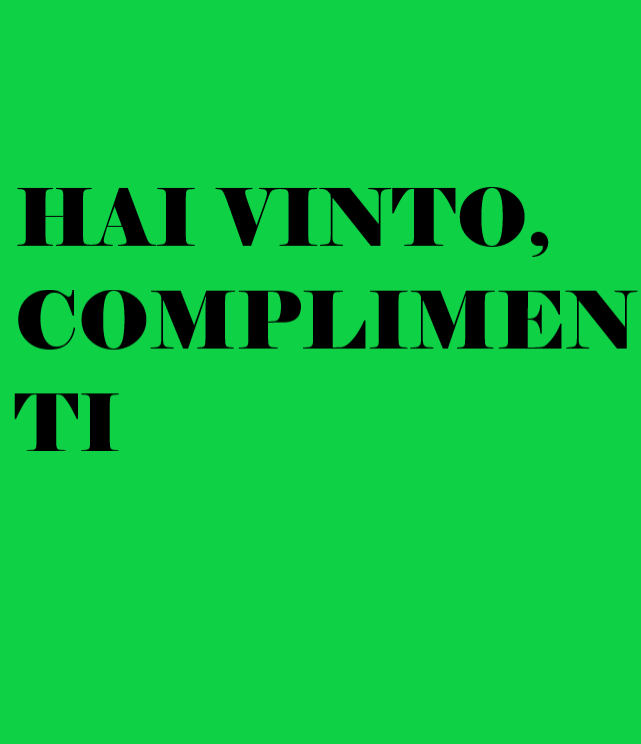
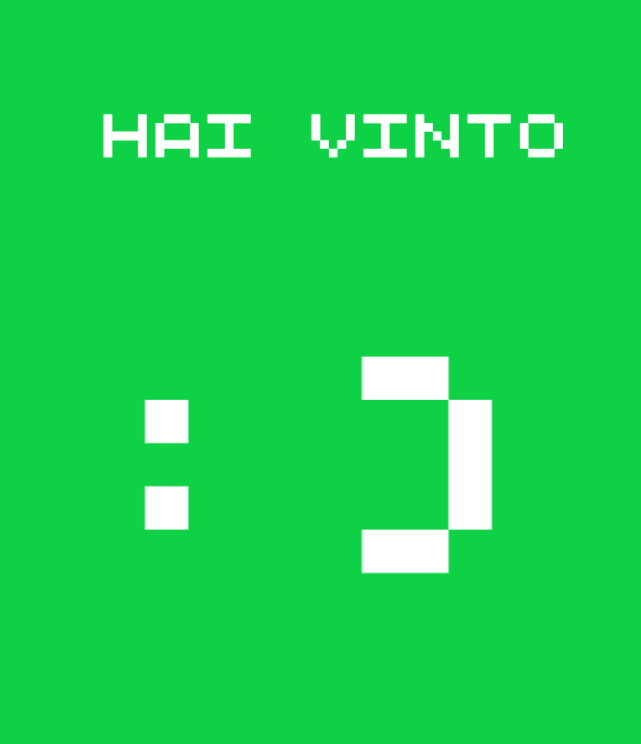
Fix generali prima del ricevimento

diff --git a/bubblesorting/src/main/java/gui/GameControl.java b/bubblesorting/src/main/java/gui/GameControl.java
@@ -88,9 +88,17 @@ public class GameControl extends JPanel {
 		int currentY = startY;
 		int contContainerInRow = 0;
 		int changeRowAt = containers.size();
+		int offSetXRow = 0;
+		
 		if (containers.size() > CommonConstants.LIMIT_CONTAINER_IN_ROW) {
-			changeRowAt = containers.size()/2 + 1;
-		} 
+			if ((containers.size() % 2) == 0) {
+				changeRowAt = containers.size() / 2;
+			} else {
+				changeRowAt = containers.size()/2 + 1;
+				offSetXRow = CommonConstants.CONTAINER_WIDTH - (CommonConstants.BALL_IN_CONTAINER_OFF_SET_X * (CommonConstants.LIMIT_CONTAINER_IN_ROW - (this.game.getnContainers() - changeRowAt)));
+			}
+			
+		}
 		for (String key : containers.keySet()) {
 			Container container = containers.get(key);
 			g2d.drawImage(MediaProvider.get().getContainer(), currentX, currentY, this);
@@ -103,7 +111,7 @@ public class GameControl extends JPanel {
 			if (contContainerInRow >= changeRowAt) {
 				currentY = currentY + (CommonConstants.CONTAINER_HEIGHT * 2);
 				contContainerInRow = 0;
-				currentX = startX + CommonConstants.CONTAINER_WIDTH - (CommonConstants.BALL_IN_CONTAINER_OFF_SET_X * (CommonConstants.LIMIT_CONTAINER_IN_ROW - (this.game.getnContainers() - changeRowAt)) );
+				currentX = startX +  offSetXRow;
 			}
 		}
 		
@@ -122,4 +130,29 @@ public class GameControl extends JPanel {
 		MediaProvider.get().drawCircleColored(ball.getColour(), g2d, xContainer + CommonConstants.BALL_IN_CONTAINER_OFF_SET_X, currentY);
 	}
 	
+	public void setGameWin() {
+		JPanel panel = new JPanel() {
+
+			private static final long serialVersionUID = 4829165578867574065L;
+
+			protected void paintComponent(Graphics g) {
+				super.paintComponent(g);
+				g.drawImage(MediaProvider.get().Win(), 0, 0, Config.SCREEN_WIDTH, Config.SCREEN_HEIGHT, null);
+			}
+		}; 
+		window.changeScreen(panel);
+	}
+	
+	public void setGameOver() {
+		JPanel panel = new JPanel() {
+			
+			private static final long serialVersionUID = 1597645967085379357L;
+
+			protected void paintComponent(Graphics g) {
+				super.paintComponent(g);
+				g.drawImage(MediaProvider.get().Over(), 0, 0, Config.SCREEN_WIDTH, Config.SCREEN_HEIGHT, null);
+			}
+		}; 
+		window.changeScreen(panel);
+	}
 }

diff --git a/bubblesorting/src/main/java/core/Updater.java b/bubblesorting/src/main/java/core/Updater.java
@@ -1,6 +1,12 @@
 package core;
 
+import java.awt.Graphics;
+
+import javax.swing.JPanel;
+
 import gui.GameControl;
+import utils.Config;
+import utils.MediaProvider;
 
 public class Updater extends Thread {
 	private boolean running;
@@ -21,21 +27,32 @@ public class Updater extends Thread {
 	@Override
 	public void run() {
 		while (running) {
-			long now = System.nanoTime();
-			
 				if (play) {
 					this.game.play();
-					System.out.println("*** AGGIORNO LA GRAFICA");
-					
-					
-					this.gameControl.repaint();
-					
-					sleep();
-					
-					this.game.doMove();
-					this.gameControl.repaint();
-					
-					sleep();
+					if (this.game.getBallChoosed() == null) {
+						if (this.game.getWin() == true) {
+							//abbiamo vinto
+							this.gameControl.setGameWin();
+							sleepFinal();
+							System.exit(0);
+						} else {
+							//abbiamo perso
+							this.gameControl.setGameOver();
+							sleepFinal();
+							System.exit(0);
+						}
+					} else {
+						this.gameControl.repaint();
+						System.out.println("*** AGGIORNO LA GRAFICA CON LA PALLINA SELEZIONATA");
+						
+						sleep();
+						
+						this.game.doMove();
+						this.gameControl.repaint();
+						System.out.println("*** AGGIORNO LA GRAFICA MUOVENDO LA PALLINA SELEZIONATA");
+						
+						sleep();
+					}
 				}
 				
 			
@@ -64,7 +81,15 @@ public class Updater extends Thread {
 	
 	private void sleep() {
 		try {
-			Thread.sleep(2000);
+			Thread.sleep(1000);
+		} catch (InterruptedException e) {
+			Thread.currentThread().interrupt();
+		}
+	}
+	
+	private void sleepFinal() {
+		try {
+			Thread.sleep(6000);
 		} catch (InterruptedException e) {
 			Thread.currentThread().interrupt();
 		}

diff --git a/bubblesorting/src/main/java/utils/MediaProvider.java b/bubblesorting/src/main/java/utils/MediaProvider.java
@@ -1,6 +1,8 @@
 package utils;
 
 import java.awt.Color;
+import java.awt.Font;
+import java.awt.FontFormatException;
 import java.awt.Graphics2D;
 import java.awt.geom.Ellipse2D;
 import java.awt.image.BufferedImage;
@@ -29,6 +31,7 @@ public class MediaProvider {
 	private BufferedImage over;
 	private BufferedImage container;
 	private HashMap<Color, Ellipse2D.Double> mapColoredBallCreated = new HashMap<>();
+	private Font font;
 	
 	
 	private MediaProvider() {
@@ -36,6 +39,7 @@ public class MediaProvider {
 		win = loadImage("win");
 		over = loadImage("gameOver");
 		container = loadImage("contenitore");
+		font = loadFont();
 		//container = loadImage("container");
 	}
 	
@@ -51,6 +55,19 @@ public class MediaProvider {
 		return img;
 	}
 	
+	private Font loadFont() {
+		Font font = null;
+		try {
+			font = Font.createFont(Font.TRUETYPE_FONT, new File(Config.PATH_NAME_FONT + ".ttf")).deriveFont(15f);
+			
+		} catch (FontFormatException | IOException e) {
+			if (OptionPopup.error_popup("errore nel caricamento del formato") == JOptionPane.OK_OPTION)
+				System.exit(0);
+			e.printStackTrace();
+		}
+		return font;
+	}
+	
 	public BufferedImage Menu() {
 		return menu;
 	}
@@ -61,6 +78,10 @@ public class MediaProvider {
 	
 	public BufferedImage Over() {
 		return over;
+	}
+	
+	public Font Font() {
+		return font;
 	}
 	
 	public BufferedImage getContainer() {

diff --git a/bubblesorting/src/main/java/gui/Button.java b/bubblesorting/src/main/java/gui/Button.java
@@ -4,11 +4,11 @@ package gui;
 import java.awt.Color;
 import java.awt.Component;
 import java.awt.Dimension;
-import java.awt.Font;
 
 import javax.swing.JButton;
 
 import utils.Config;
+import utils.MediaProvider;
 
 public class Button extends JButton {
 
@@ -18,7 +18,7 @@ public class Button extends JButton {
 		super(name);
 		int widthButton = (Config.SCREEN_WIDTH / 3) / 2;
 		this.setMaximumSize(new Dimension(widthButton, Config.SCREEN_HEIGHT / 12));
-		this.setFont(new Font("Elephant", Font.BOLD, 24));
+		this.setFont(MediaProvider.get().Font());
 		this.setForeground(color);
 		this.setAlignmentX(Component.CENTER_ALIGNMENT);
 		this.setContentAreaFilled(false);

diff --git a/bubblesorting/src/main/java/utils/Config.java b/bubblesorting/src/main/java/utils/Config.java
@@ -7,7 +7,8 @@ public class Config {
 	public static final int SCREEN_WIDTH = Toolkit.getDefaultToolkit().getScreenSize().width;
 	public static final int SCREEN_HEIGHT = Toolkit.getDefaultToolkit().getScreenSize().height;
 	public static final String PATH_LOGIC_DISJ_PROGRAM = "encodings/logicDisjuntiveProgram";
-	public static final String GUESS = "muoviPallinaInConten";
+	public static final String PATH_NAME_FONT = "other/fonts/Quinquefive";
+	public static final String GUESS_ATOM = "muoviPallinaInConten";
+	public static final String WIN_ATOM = "partitaVinta";
 	
-
 }

diff --git a/bubblesorting/src/main/java/gui/Menu.java b/bubblesorting/src/main/java/gui/Menu.java
@@ -32,9 +32,9 @@ public class Menu extends JPanel {
 		this.setPreferredSize(new Dimension(Config.SCREEN_WIDTH, Config.SCREEN_HEIGHT));
 		this.setLayout(new BorderLayout());
 
-		play = new Button(textButtonPlay, new Color(0, 100, 0));
-		quit = new Button(textButtonQuit, new Color(153, 0, 0));
-
+		play = new Button(textButtonPlay, new Color(255, 255, 255));
+		quit = new Button(textButtonQuit, new Color(255, 255, 255));
+		
 		initLayoutPanels();
 		buttonCommand(window);
 

diff --git a/bubblesorting/src/main/java/gui/CommonConstants.java b/bubblesorting/src/main/java/gui/CommonConstants.java
@@ -8,6 +8,9 @@ public class CommonConstants {
 	public static final int CONTAINER_HEIGHT = 173;
 	
 	public static final int LIMIT_CONTAINER_IN_ROW = 5;
+	
 	public static final int BALL_IN_CONTAINER_OFF_SET_X = 15;
 	public static final int BALL_IN_CONTAINER_OFF_SET_Y = 10;
+	
+	public static final int NUM_BALLS_FOR_COLOUR = 4;
 }

diff --git a/bubblesorting/src/main/java/gui/Window.java b/bubblesorting/src/main/java/gui/Window.java
@@ -14,7 +14,7 @@ public class Window extends JFrame {
 	private void initFrame() {
 		this.add(new Menu(this));
 		//TODO commentato per fase di sviluppo
-		//setFullScreen();
+		setFullScreen();
 		this.setVisible(true);
 		this.pack();
 		//al click quit della finestra chiude il processo
